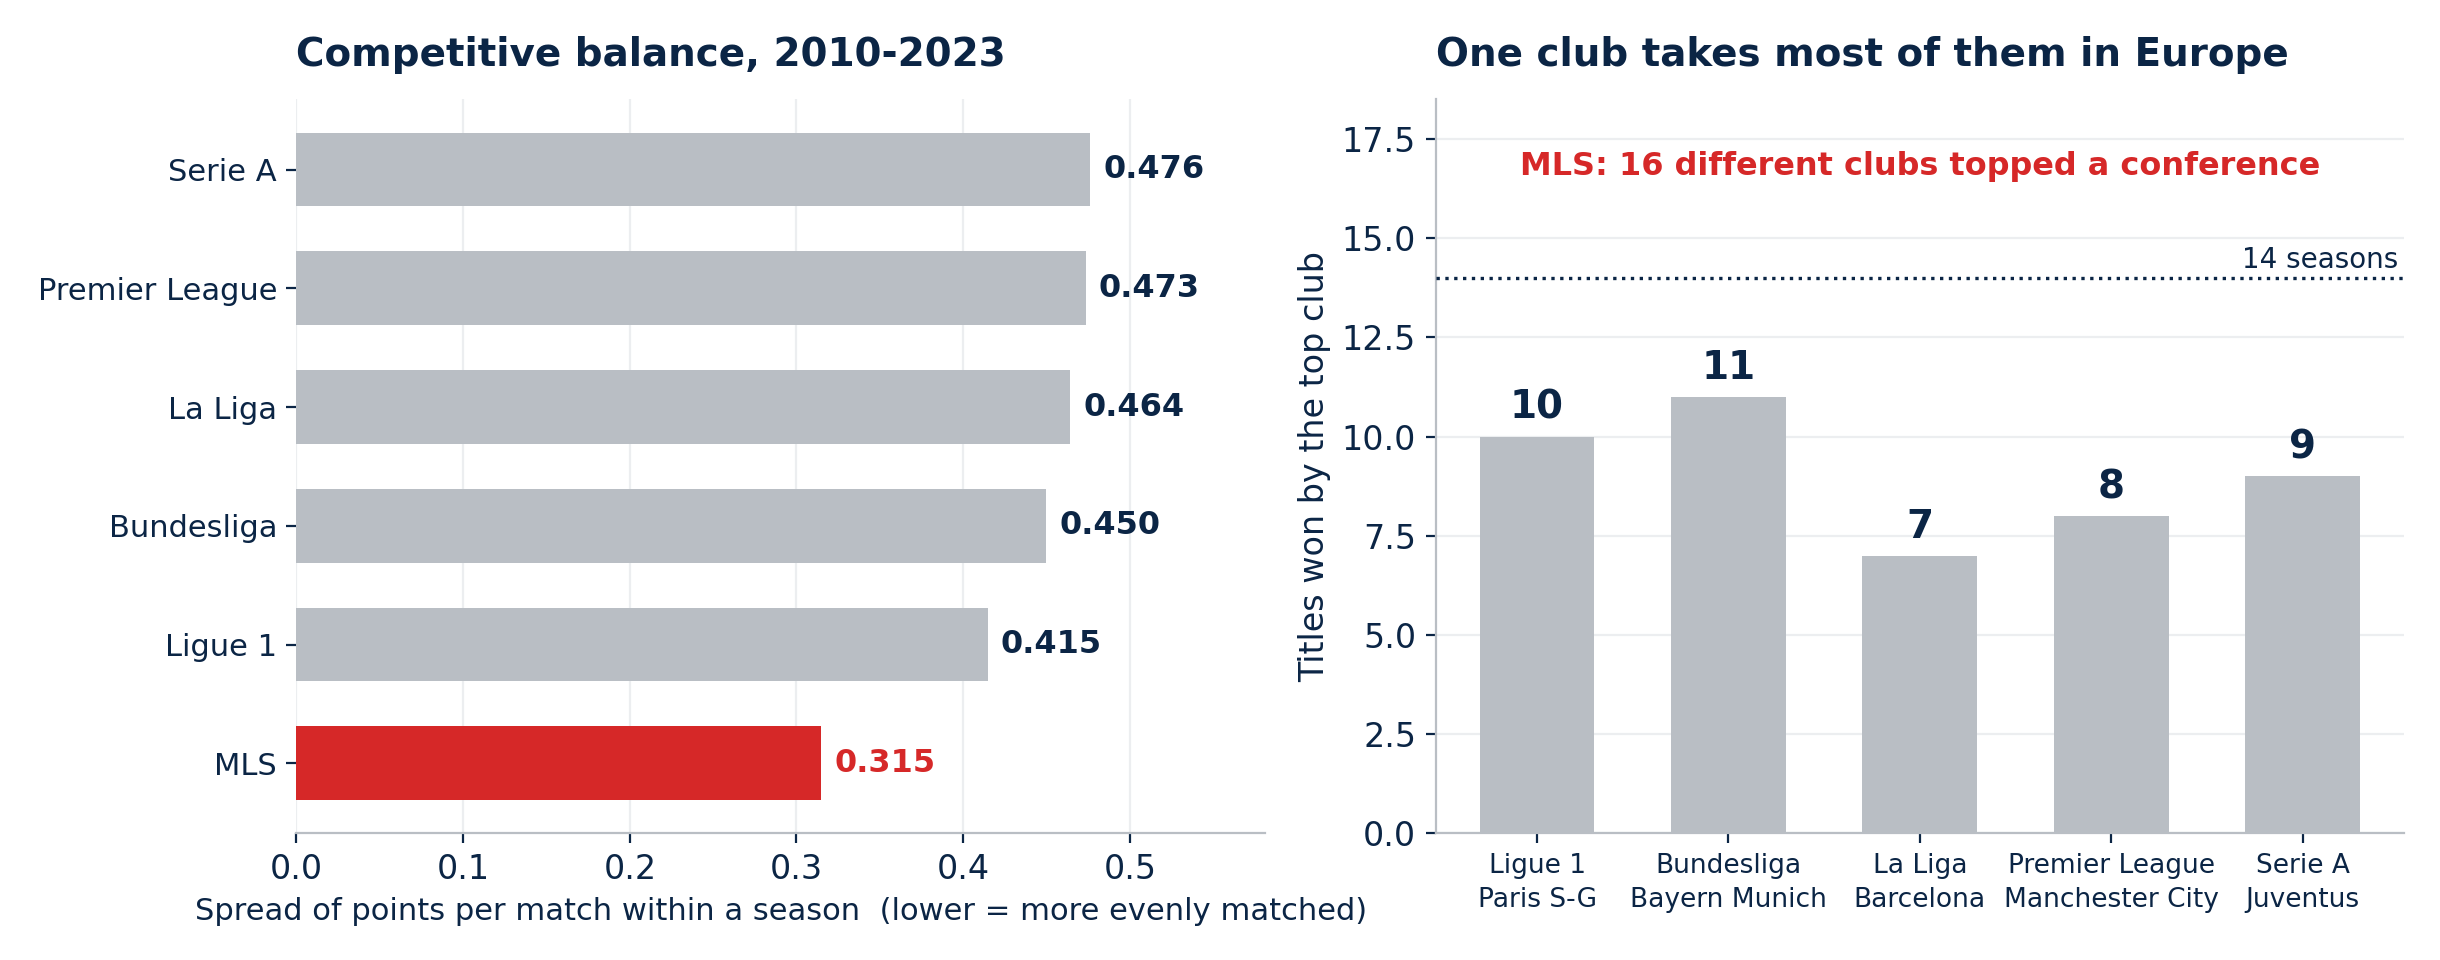
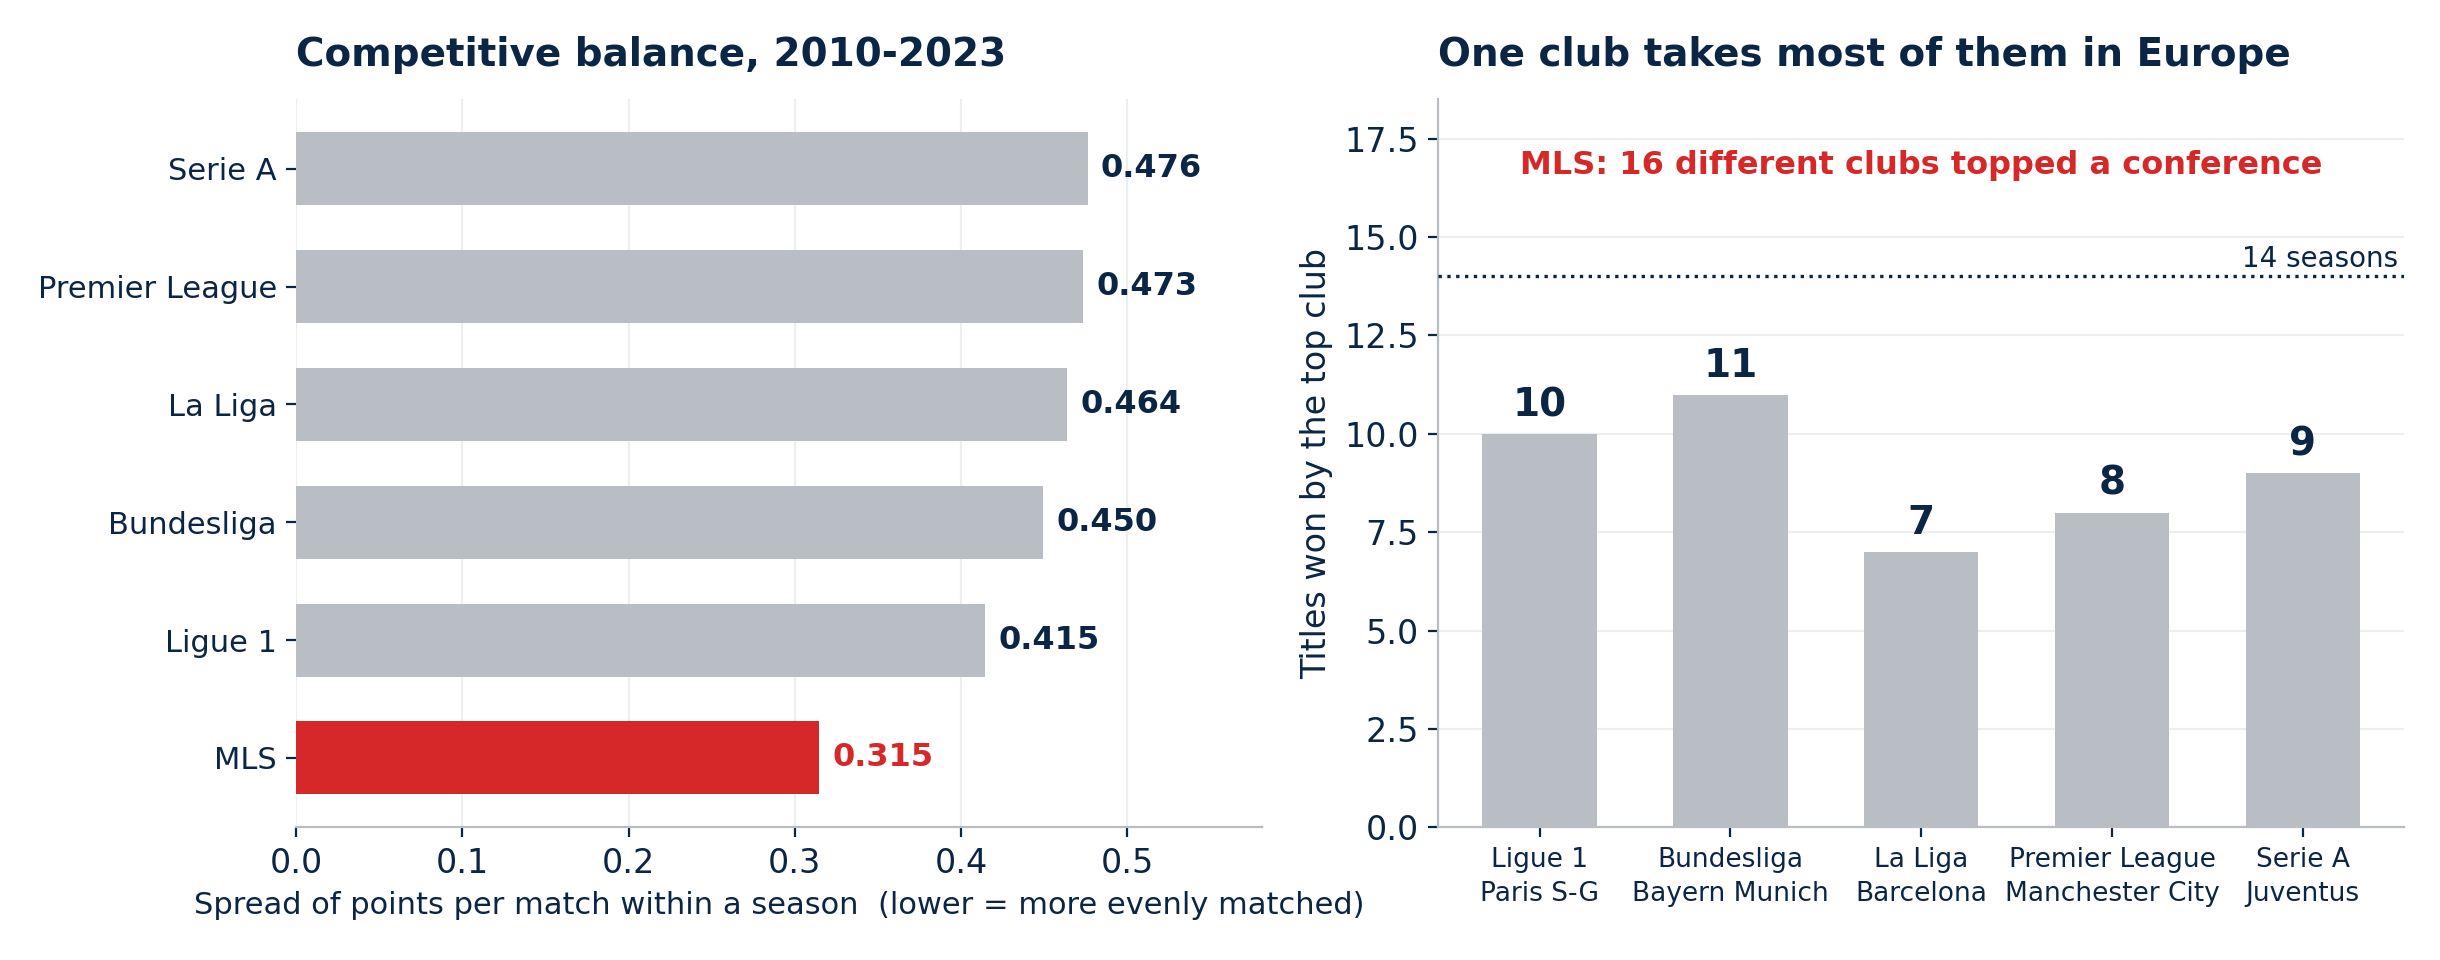
Correct the NBA schedule findings and drop counts from the project headings
The schedule project claimed effects of 'up to roughly five wins across a
regular season'. Recomputed from the source: the spread between the most and
least schedule-hurt franchise is 1.7 wins across five seasons. Rest is the
real effect (57% at a two-day edge); travel load is not.

Headings no longer count the projects they introduce - the counts were also
wrong, saying three and four where four and five render.

diff --git a/projects.html b/projects.html
@@ -251,7 +251,7 @@ footer a{color:var(--muted)}
 <main class="wrap">
 <div data-mode-block="analyst" hidden><div class="hero" style="padding-bottom:26px">
   <span class="eyebrow">Data &amp; Business Analytics</span>
-  <h1 style="font-size:clamp(28px,4vw,42px)">Three that show the range</h1>
+  <h1 style="font-size:clamp(28px,4vw,42px)">Work that reached a decision</h1>
   <div class="rule"></div>
   <p class="lede">Churn, workforce economics, and the dashboard that talked a budget out of being spent.</p>
 </div>
@@ -295,9 +295,9 @@ footer a{color:var(--muted)}
 <div class="note">Every project here has a repository with the code, the data where it can be
 shared, and a full write-up. More at <a href="https://github.com/Semin1c">github.com/Semin1c</a>.</div></div><div data-mode-block="sports" hidden><div class="hero" style="padding-bottom:26px">
   <span class="eyebrow">Sports Analytics</span>
-  <h1 style="font-size:clamp(28px,4vw,42px)">Four findings that reversed the assumption</h1>
+  <h1 style="font-size:clamp(28px,4vw,42px)">Questions about how the game actually works</h1>
   <div class="rule"></div>
-  <p class="lede">Possession, home advantage, competitive balance, and what a schedule is actually worth.</p>
+  <p class="lede">Possession, home advantage, competitive balance, the calendar — and the tracking groundwork that has to exist before any of it is possible.</p>
 </div>
 <div class="entry">
   <div class="meat">
@@ -321,10 +321,10 @@ shared, and a full write-up. More at <a href="https://github.com/Semin1c">github
   <div class="meat">
     <div class="tag" style="font-size:11.5px;font-weight:700;letter-spacing:.07em;text-transform:uppercase;color:var(--accent);margin-bottom:8px">NBA · 10 seasons</div>
     <h3>How much of a result is decided by the calendar?</h3>
-    <div class="stack">Schedule, Travel & Rest · Python · schedule modelling</div>
-    <p>Rest advantage, back-to-backs and schedule compression translate into differences of up to roughly five wins across a regular season — enough to matter for planning and for reading a standings table honestly.</p>
-    <div class="took"><span>What I took from it</span>Some of what looks like form is just scheduling, and it's measurable before tip-off.</div>
-    <a class="btn btn-ghost" href="https://github.com/Semin1c">View the repository →</a>
+    <div class="stack">Schedule, Travel & Rest · R · GLM · k-means · geospatial</div>
+    <p>Ten seasons of every game, built as seven modules: schedule density, travel load, fatigue against defence and offence, opponent sequencing, a win-impact model, and k-means that sorts all 300 team-seasons into five schedule archetypes. Rest is the real effect — 57% at a two-day edge against 50% at parity, and back-to-back night two measurably worsens defence. Travel is not: the load index explains essentially none of a team's home-away split. Added up, the whole schedule separates the luckiest and unluckiest franchise by about 1.7 wins across five seasons.</p>
+    <div class="took"><span>What I took from it</span>I had the travel finding backwards in my own write-up for months before I rechecked the regression.</div>
+    <a class="btn btn-ghost" href="https://github.com/Semin1c/NBA_Schedule_Difficulty">View the repository →</a>
   </div>
 </div><div class="entry"><div class="shot"><img src="assets/sports_crowd_confound.png" alt="Where Home Advantage Comes From"></div>
   <div class="meat">

diff --git a/index.html b/index.html
@@ -270,7 +270,7 @@ footer a{color:var(--muted)}
     <a class="btn btn-ghost" href="projects.html" data-keepmode>Selected work</a>
   </div>
 </div></div><section><div data-mode-block="analyst" hidden><div class="kicker">Selected work</div>
-<h2>Three that show the range</h2>
+<h2>Work that reached a decision</h2>
 <p class="prose">Churn, workforce economics, and the dashboard that talked a budget out of being spent.</p>
 <div class="cards"><div class="card" >
   <div class="tag">E-commerce · Side project</div>
@@ -290,8 +290,8 @@ footer a{color:var(--muted)}
 </a></div>
 <div class="note">Three here, the rest on <a href="https://github.com/Semin1c">GitHub</a> —
 a portfolio should be read, not scrolled past.</div></div><div data-mode-block="sports" hidden><div class="kicker">Selected work</div>
-<h2>Four findings that reversed the assumption</h2>
-<p class="prose">Possession, home advantage, competitive balance, and what a schedule is actually worth.</p>
+<h2>Questions about how the game actually works</h2>
+<p class="prose">Possession, home advantage, competitive balance, the calendar — and the tracking groundwork that has to exist before any of it is possible.</p>
 <div class="cards"><div class="card" >
   <div class="tag">Hockey · Current</div>
   <h3>What should a junior hockey programme actually be recording?</h3>
@@ -302,11 +302,11 @@ a portfolio should be read, not scrolled past.</div></div><div data-mode-block="
   <h3>Does having the ball more actually create more chances?</h3>
   <p>I tested 23 possession metrics across eight Premier League seasons. On clubs the model hadn't seen, touches in the opposition box alone did better than the whole set together.</p>
   <div class="took"><span>What I took from it</span>Most of what we measure about possession is describing the same thing several times over.</div>
-</a><a class="card" href="https://github.com/Semin1c">
+</a><a class="card" href="https://github.com/Semin1c/NBA_Schedule_Difficulty">
   <div class="tag">NBA · 10 seasons</div>
   <h3>How much of a result is decided by the calendar?</h3>
-  <p>Across ten NBA seasons, separating rest, travel and opponent sequencing from how good a team actually is. A meaningful rest edge is worth a lot more than I'd have guessed.</p>
-  <div class="took"><span>What I took from it</span>Some of what looks like form is just scheduling, and it's measurable before tip-off.</div>
+  <p>Rest matters and travel doesn't, which is the opposite of how people talk about the NBA schedule. A team with two extra days off wins 57% of the time. Miles flown predicts nothing once you look properly.</p>
+  <div class="took"><span>What I took from it</span>I had the travel finding backwards in my own write-up for months before I rechecked the regression.</div>
 </a></div>
 <div class="note">Three here, the rest on <a href="https://github.com/Semin1c">GitHub</a> —
 a portfolio should be read, not scrolled past.</div></div></section>

diff --git a/content.py b/content.py
@@ -196,7 +196,7 @@ MODES = {
              status="Idea"),
     ],
 
-    proj_title="Three that show the range",
+    proj_title="Work that reached a decision",
     proj_lede="Churn, workforce economics, and the dashboard that talked a budget out of being spent.",
     projects=[
         dict(tag="E-commerce · Side project", title="Sportswear B2C Diagnostic",
@@ -369,8 +369,8 @@ MODES = {
              status="Outline"),
     ],
 
-    proj_title="Four findings that reversed the assumption",
-    proj_lede="Possession, home advantage, competitive balance, and what a schedule is actually worth.",
+    proj_title="Questions about how the game actually works",
+    proj_lede="Possession, home advantage, competitive balance, the calendar — and the tracking groundwork that has to exist before any of it is possible.",
     projects=[
         dict(tag="Hockey · Current", title="In-Game Event Tracking",
              question="What should a junior hockey programme actually be recording?",
@@ -397,13 +397,17 @@ MODES = {
              repo="https://github.com/Semin1c/pl-possession-and-box-entry", stack="Python · cross-validation · recruitment analytics"),
         dict(tag="NBA · 10 seasons", title="Schedule, Travel & Rest",
              question="How much of a result is decided by the calendar?",
-             desc="Across ten NBA seasons, separating rest, travel and opponent sequencing from how good a team actually is. A meaningful rest edge is worth a lot more than I'd have guessed.",
-             took="Some of what looks like form is just scheduling, and it's measurable before tip-off.",
-             body="Rest advantage, back-to-backs and schedule compression translate into differences "
-                  "of up to roughly five wins across a regular season — enough to matter for planning "
-                  "and for reading a standings table honestly.",
-             fig=None,
-             repo="https://github.com/Semin1c", stack="Python · schedule modelling"),
+             desc="Rest matters and travel doesn't, which is the opposite of how people talk about the NBA schedule. A team with two extra days off wins 57% of the time. Miles flown predicts nothing once you look properly.",
+             took="I had the travel finding backwards in my own write-up for months before I rechecked the regression.",
+             body="Ten seasons of every game, built as seven modules: schedule density, travel load, "
+                  "fatigue against defence and offence, opponent sequencing, a win-impact model, and "
+                  "k-means that sorts all 300 team-seasons into five schedule archetypes. Rest is the "
+                  "real effect — 57% at a two-day edge against 50% at parity, and back-to-back night "
+                  "two measurably worsens defence. Travel is not: the load index explains essentially "
+                  "none of a team's home-away split. Added up, the whole schedule separates the "
+                  "luckiest and unluckiest franchise by about 1.7 wins across five seasons.",
+             repo="https://github.com/Semin1c/NBA_Schedule_Difficulty",
+             stack="R · GLM · k-means · geospatial"),
         dict(tag="La Liga · 380 matches", title="Where Home Advantage Comes From",
              question="Is home advantage the crowd, or the referee, or something else?",
              desc="Neither, as far as I can tell. Attendance predicts home points right up until you account for which clubs fill big stadiums. The referee spread sits inside what random shuffling produces. What's left is territorial — home sides create more, they don't finish better.",
